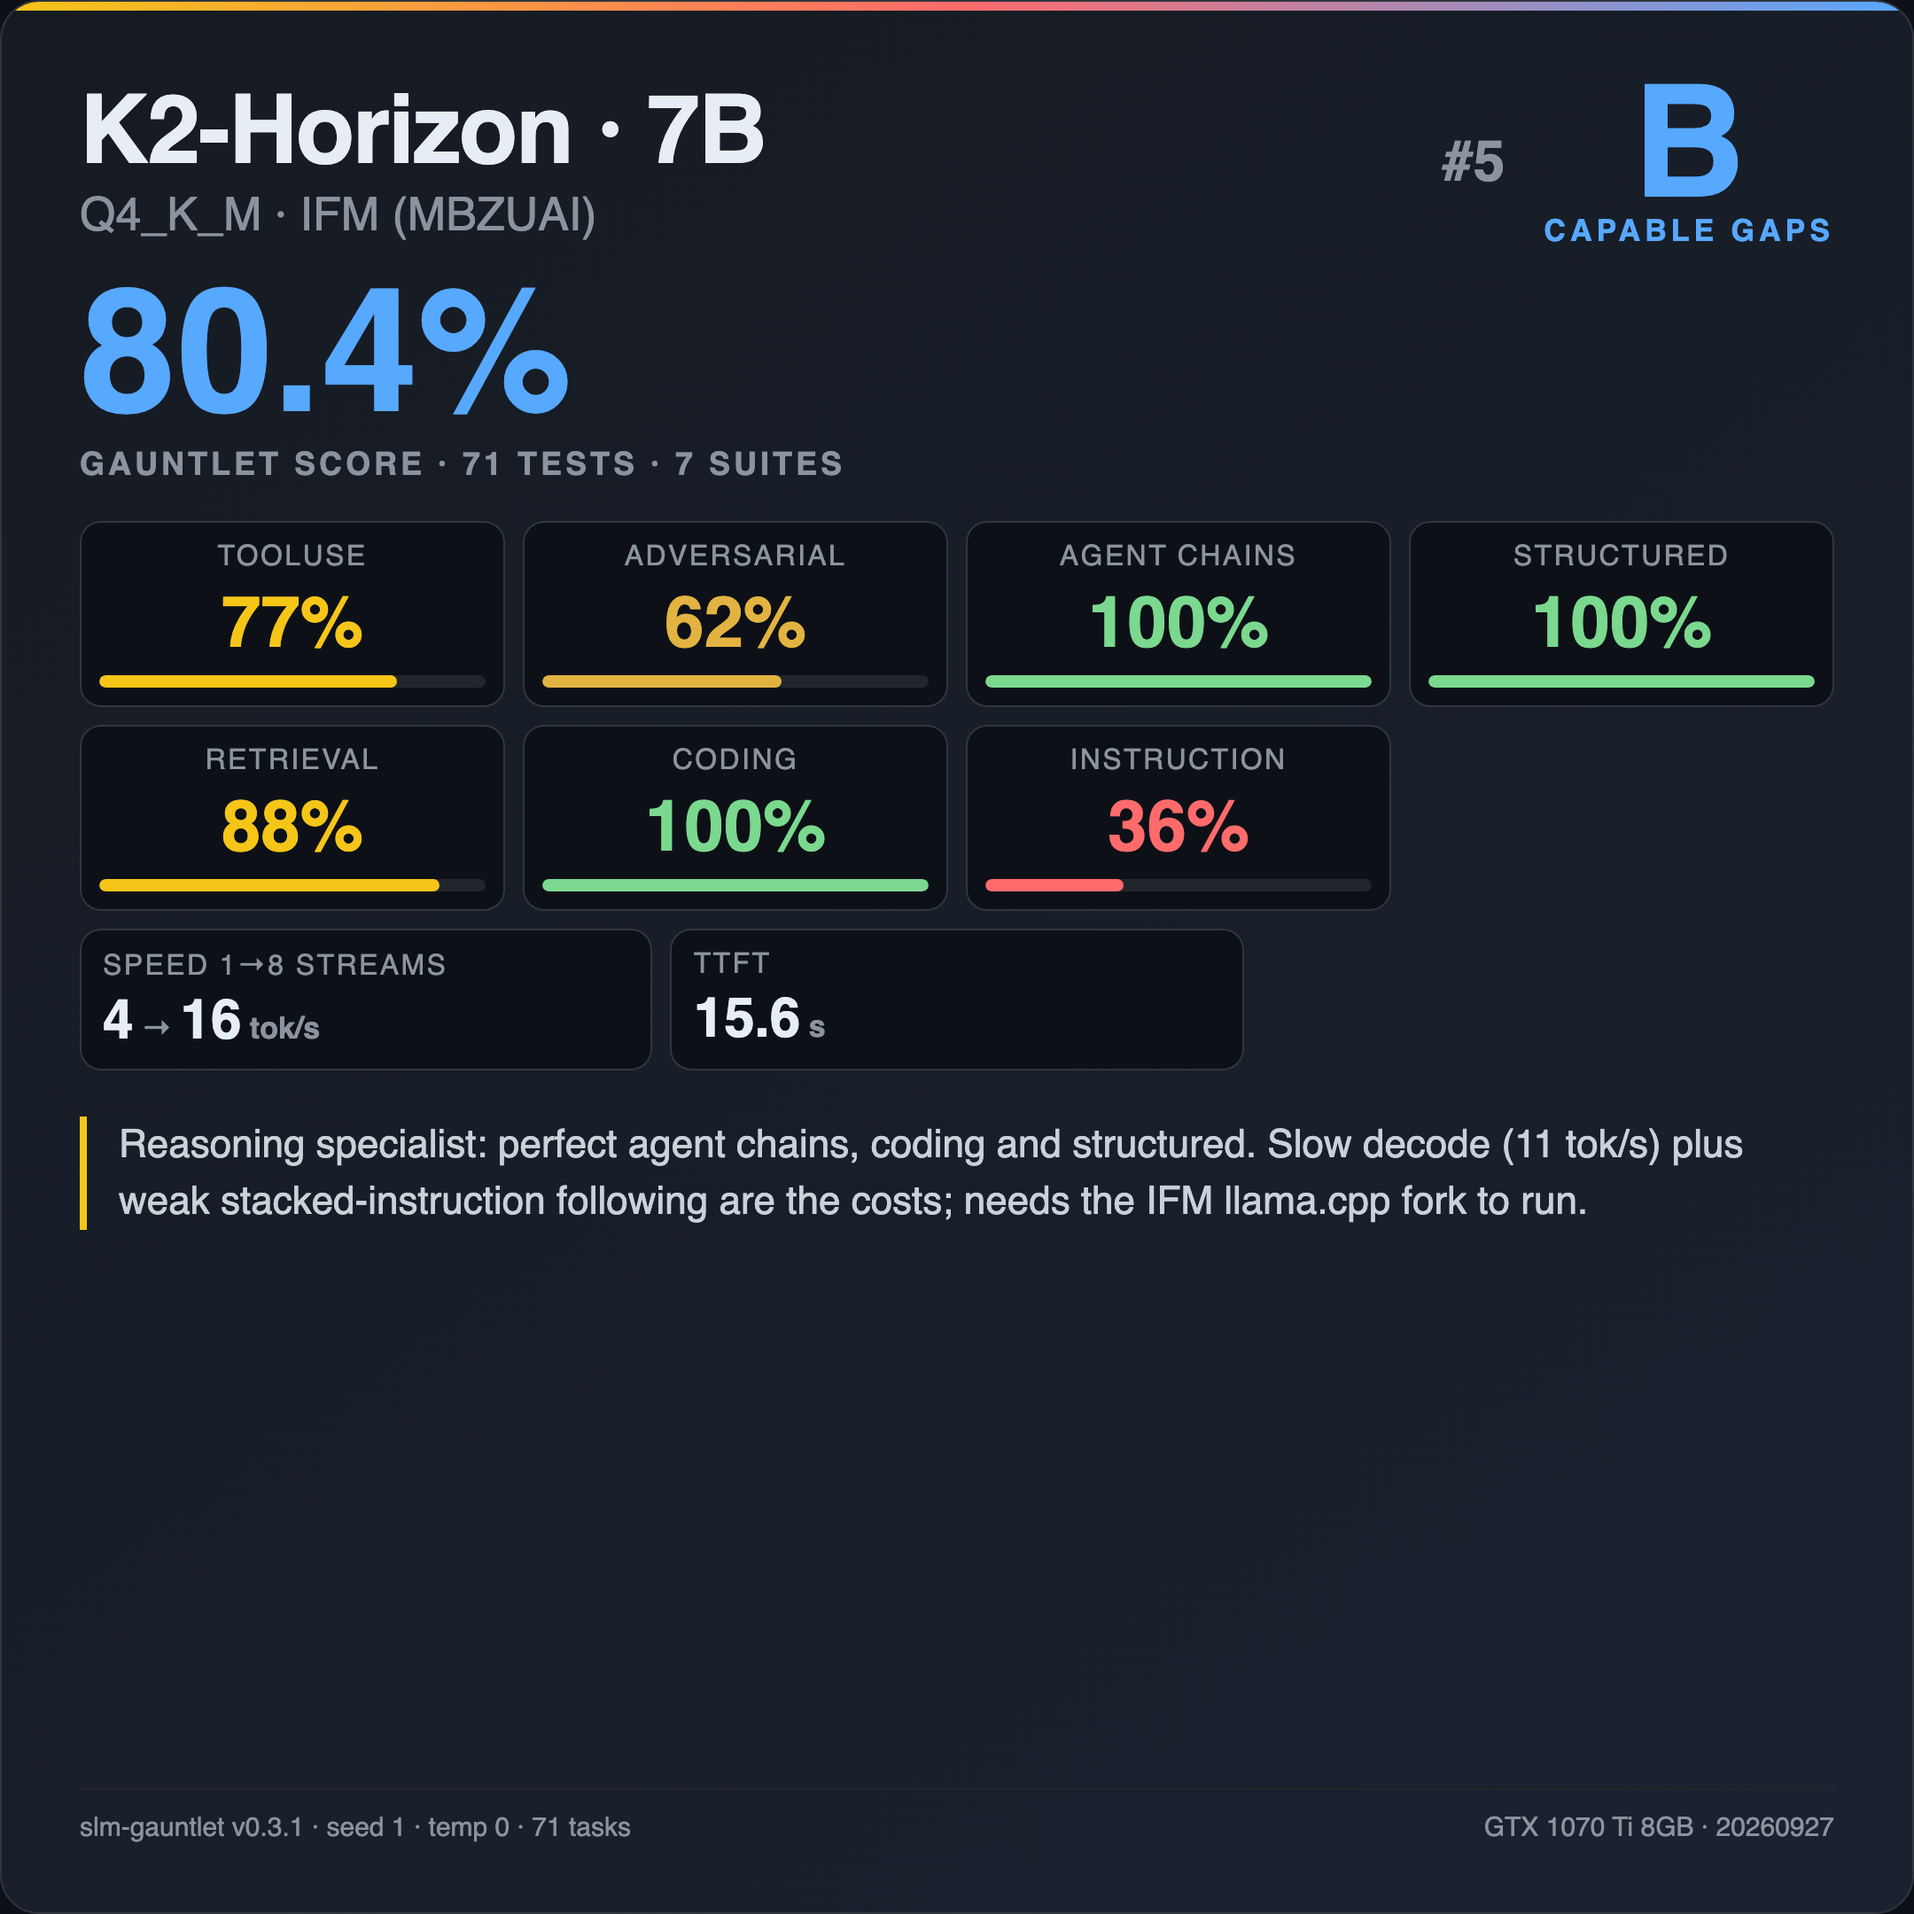
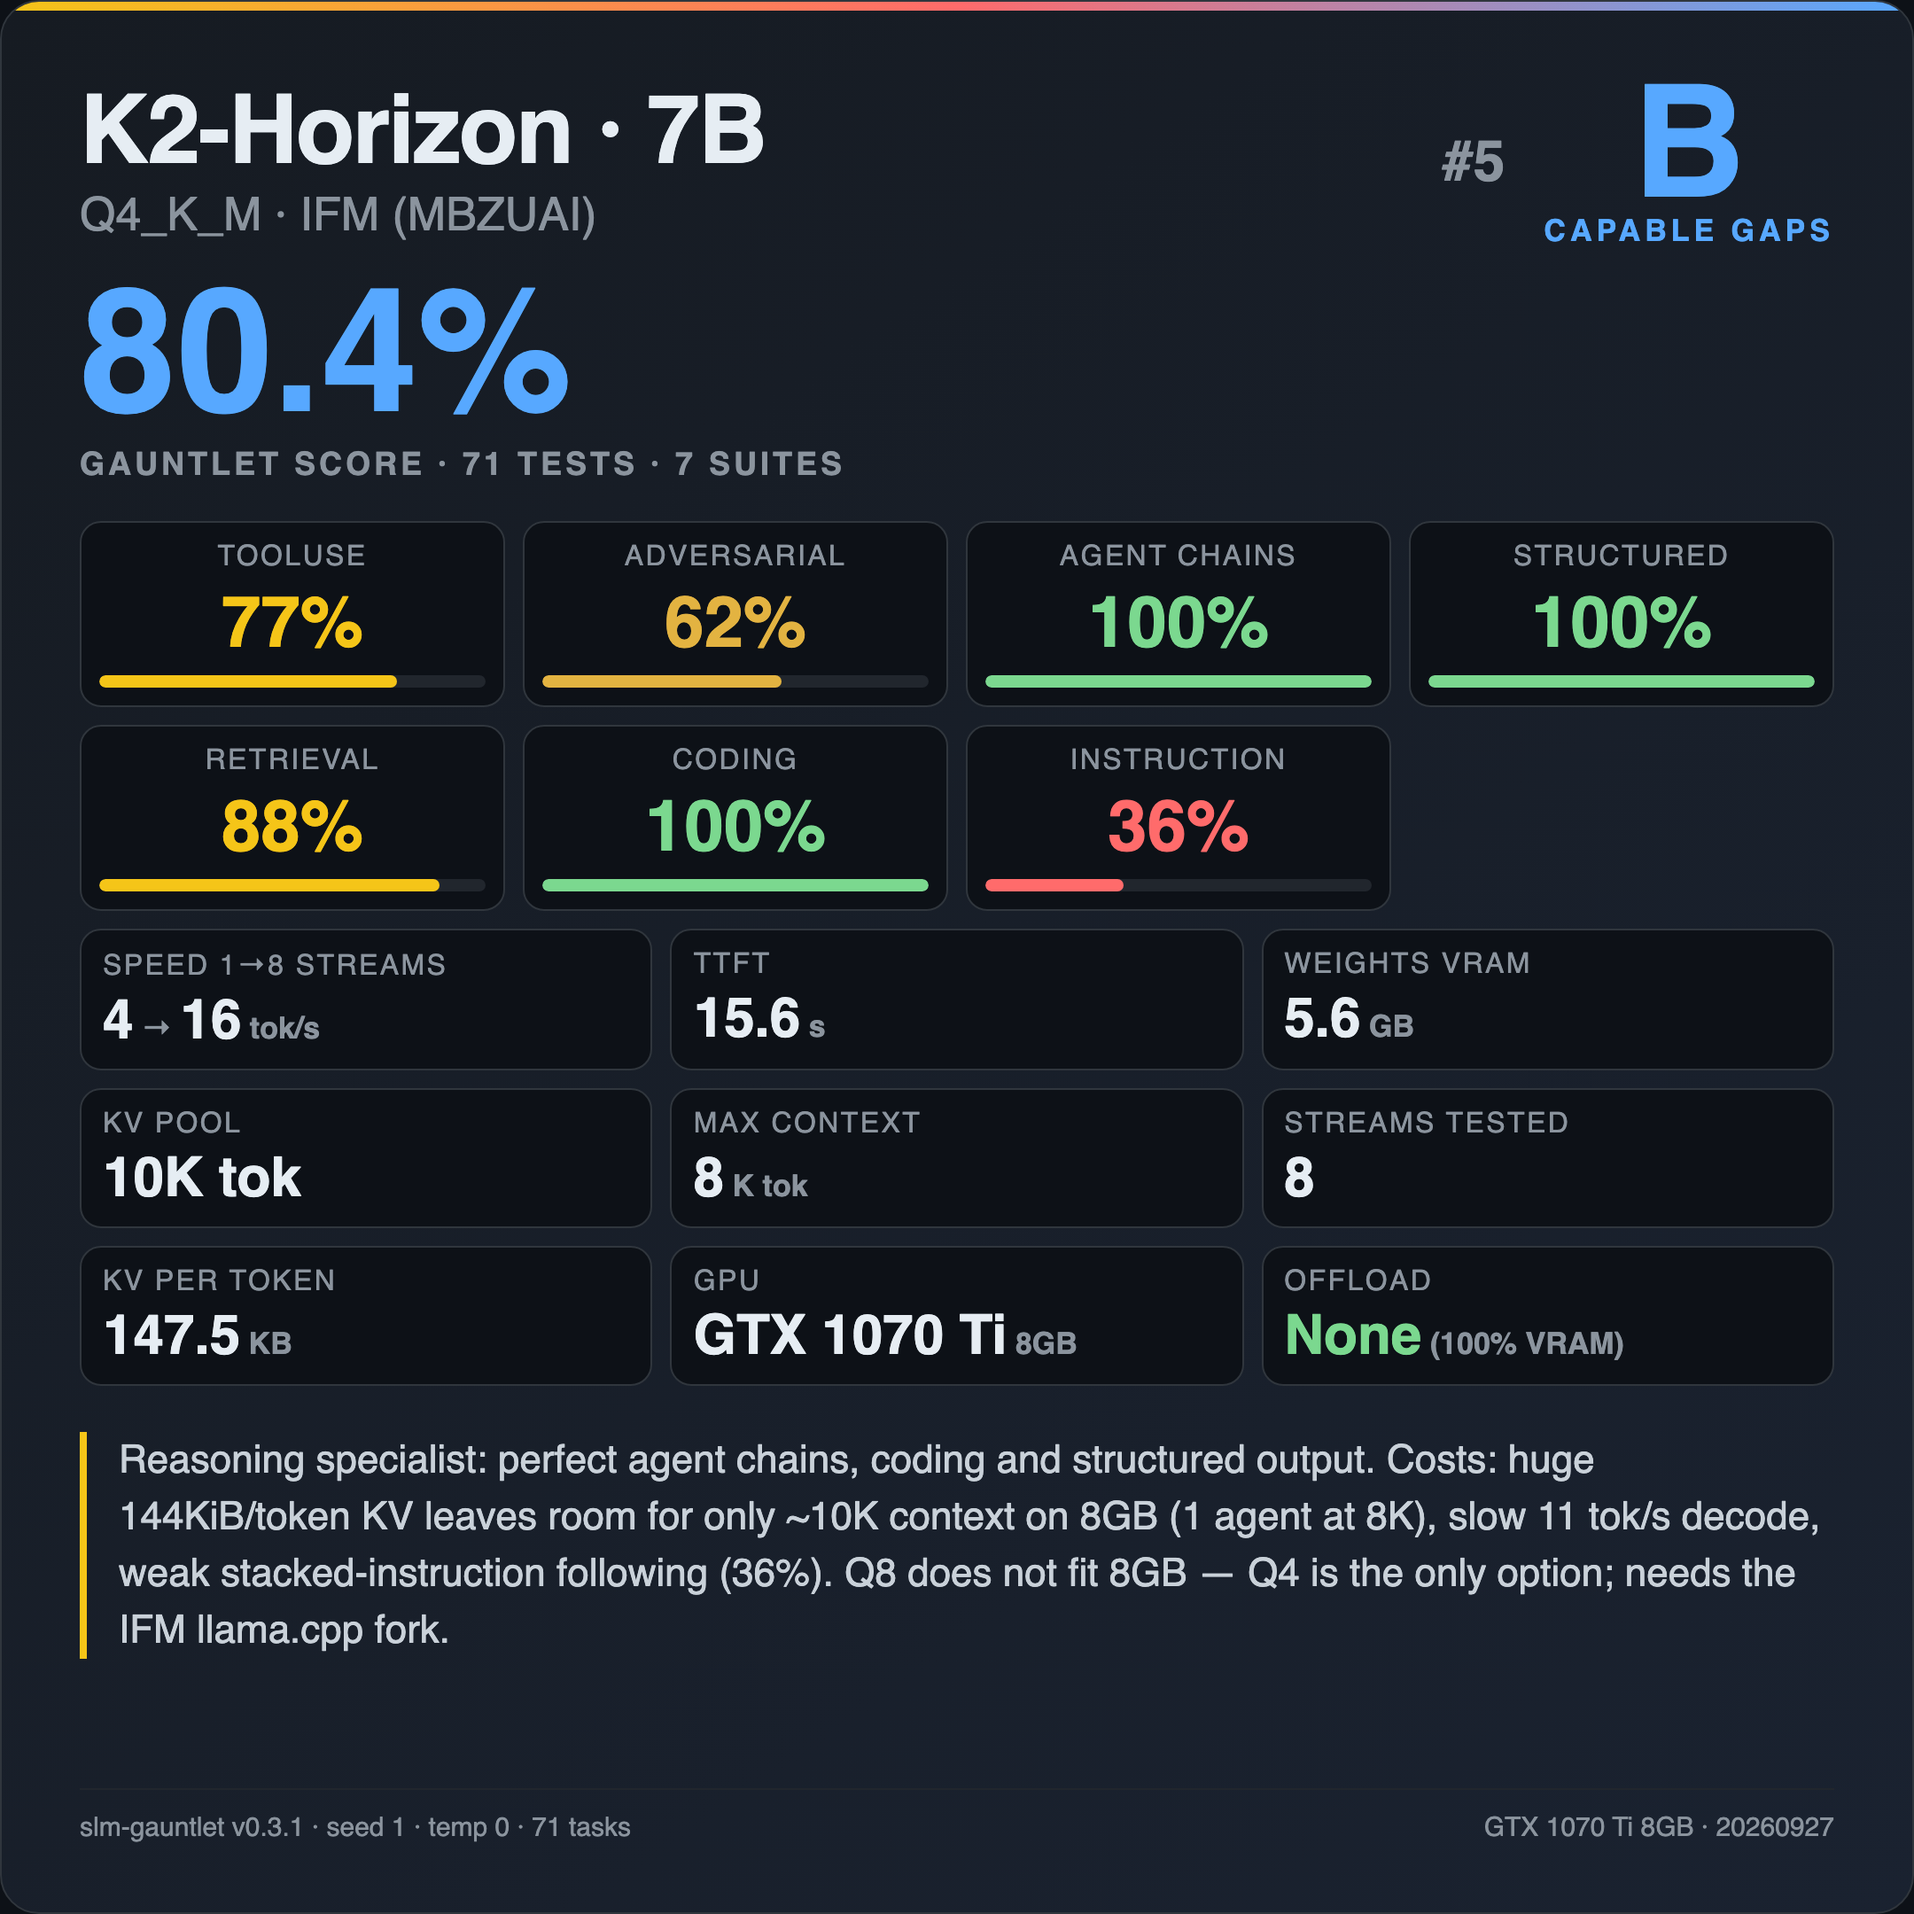
K2Horizon: capacity probe (144KiB/token KV, ~10K pool on 8GB, 1 agent @8K), fixed card stats grid

Changed region(s): [[0.031, 0.4963, 0.8995, 0.7134], [0.031, 0.7444, 0.9616, 0.8685]]

diff --git a/results/cards/card_k2horizon-7b-q4_K_M.html b/results/cards/card_k2horizon-7b-q4_K_M.html
@@ -36,4 +36,4 @@ html,body { width:1080px; height:1080px; overflow:hidden; margin:0;
 @media (max-height:1080px){ .stat{padding:10px 12px} }
 .bar { height:7px; border-radius:4px; background:#21262d; margin-top:7px; overflow:hidden; }
 .bar>i { display:block; height:100%; border-radius:4px; }
-</style></head><body><div class=card><div class=hrow> <div><div class=model-name>K2-Horizon · 7B</div><div class=model-quant>Q4_K_M · IFM (MBZUAI)</div></div><div class=rank><span class=rank-num>#5</span><div><div class=rank-letter style="color:#57a8ff">B</div><div class=rank-label style="color:#57a8ff">CAPABLE GAPS</div></div></div></div><div class=scoreband><div><span class=overall-pct style="color:#57a8ff">80.4%</span><div class=overall-sub>GAUNTLET SCORE · 71 TESTS · 7 SUITES</div></div></div><div class=suites><div class=suite><div class=suite-name>tooluse</div><div class=suite-val style="color:#f5c518">77%</div><div class=bar><i style="width:77%;background:#f5c518"></i></div></div><div class=suite><div class=suite-name>adversarial</div><div class=suite-val style="color:#e3b341">62%</div><div class=bar><i style="width:62%;background:#e3b341"></i></div></div><div class=suite><div class=suite-name>agent chains</div><div class=suite-val style="color:#7bd88f">100%</div><div class=bar><i style="width:100%;background:#7bd88f"></i></div></div><div class=suite><div class=suite-name>structured</div><div class=suite-val style="color:#7bd88f">100%</div><div class=bar><i style="width:100%;background:#7bd88f"></i></div></div><div class=suite><div class=suite-name>retrieval</div><div class=suite-val style="color:#f5c518">88%</div><div class=bar><i style="width:88%;background:#f5c518"></i></div></div><div class=suite><div class=suite-name>coding</div><div class=suite-val style="color:#7bd88f">100%</div><div class=bar><i style="width:100%;background:#7bd88f"></i></div></div><div class=suite><div class=suite-name>instruction</div><div class=suite-val style="color:#ff6b6b">36%</div><div class=bar><i style="width:36%;background:#ff6b6b"></i></div></div></div><div class=stats><div class=stat><div class=stat-k>Speed 1→8 streams</div><div class=stat-v>4<small> → </small>16<small> tok/s</small></div></div><div class=stat><div class=stat-k>TTFT</div><div class=stat-v>15.6<small> s</small></div></div></div><div class=verdict verdict-xs>Reasoning specialist: perfect agent chains, coding and structured. Slow decode (11 tok/s) plus weak stacked-instruction following are the costs; needs the IFM llama.cpp fork to run.</div><div class=foot><span>slm-gauntlet v0.3.1 · seed 1 · temp 0 · 71 tasks</span><span>GTX 1070 Ti 8GB · 20260927</span></div></div></body></html>
+</style></head><body><div class=card><div class=hrow> <div><div class=model-name>K2-Horizon · 7B</div><div class=model-quant>Q4_K_M · IFM (MBZUAI)</div></div><div class=rank><span class=rank-num>#5</span><div><div class=rank-letter style="color:#57a8ff">B</div><div class=rank-label style="color:#57a8ff">CAPABLE GAPS</div></div></div></div><div class=scoreband><div><span class=overall-pct style="color:#57a8ff">80.4%</span><div class=overall-sub>GAUNTLET SCORE · 71 TESTS · 7 SUITES</div></div></div><div class=suites><div class=suite><div class=suite-name>tooluse</div><div class=suite-val style="color:#f5c518">77%</div><div class=bar><i style="width:77%;background:#f5c518"></i></div></div><div class=suite><div class=suite-name>adversarial</div><div class=suite-val style="color:#e3b341">62%</div><div class=bar><i style="width:62%;background:#e3b341"></i></div></div><div class=suite><div class=suite-name>agent chains</div><div class=suite-val style="color:#7bd88f">100%</div><div class=bar><i style="width:100%;background:#7bd88f"></i></div></div><div class=suite><div class=suite-name>structured</div><div class=suite-val style="color:#7bd88f">100%</div><div class=bar><i style="width:100%;background:#7bd88f"></i></div></div><div class=suite><div class=suite-name>retrieval</div><div class=suite-val style="color:#f5c518">88%</div><div class=bar><i style="width:88%;background:#f5c518"></i></div></div><div class=suite><div class=suite-name>coding</div><div class=suite-val style="color:#7bd88f">100%</div><div class=bar><i style="width:100%;background:#7bd88f"></i></div></div><div class=suite><div class=suite-name>instruction</div><div class=suite-val style="color:#ff6b6b">36%</div><div class=bar><i style="width:36%;background:#ff6b6b"></i></div></div></div><div class=stats><div class=stat><div class=stat-k>Speed 1→8 streams</div><div class=stat-v>4<small> → </small>16<small> tok/s</small></div></div><div class=stat><div class=stat-k>TTFT</div><div class=stat-v>15.6<small> s</small></div></div><div class=stat><div class=stat-k>Weights VRAM</div><div class=stat-v>5.6<small> GB</small></div></div><div class=stat><div class=stat-k>KV pool</div><div class=stat-v>10K tok</div></div><div class=stat><div class=stat-k>Max context</div><div class=stat-v>8<small> K tok</small></div></div><div class=stat><div class=stat-k>Streams tested</div><div class=stat-v>8</div></div><div class=stat><div class=stat-k>KV per token</div><div class=stat-v>147.5<small> KB</small></div></div><div class=stat><div class=stat-k>GPU</div><div class=stat-v>GTX 1070 Ti<small> 8GB</small></div></div><div class=stat><div class=stat-k>Offload</div><div class=stat-v style="color:#7bd88f">None<small> (100% VRAM)</small></div></div></div><div class=verdict verdict-xs>Reasoning specialist: perfect agent chains, coding and structured output. Costs: huge 144KiB/token KV leaves room for only ~10K context on 8GB (1 agent at 8K), slow 11 tok/s decode, weak stacked-instruction following (36%). Q8 does not fit 8GB — Q4 is the only option; needs the IFM llama.cpp fork.</div><div class=foot><span>slm-gauntlet v0.3.1 · seed 1 · temp 0 · 71 tasks</span><span>GTX 1070 Ti 8GB · 20260927</span></div></div></body></html>
